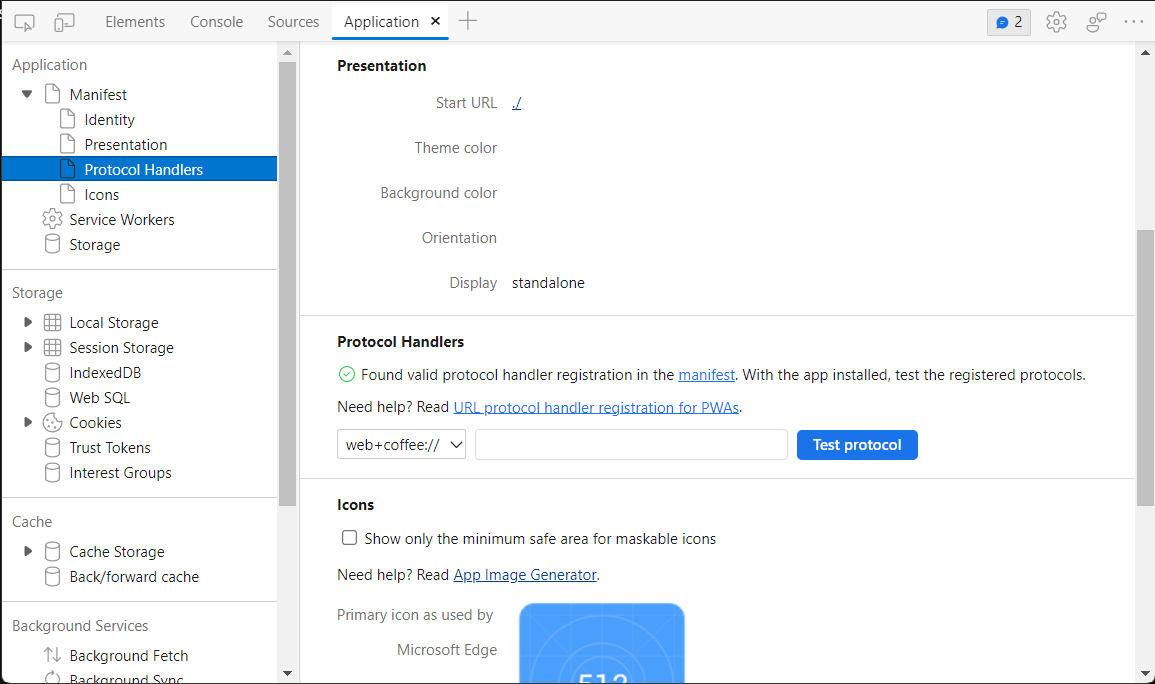
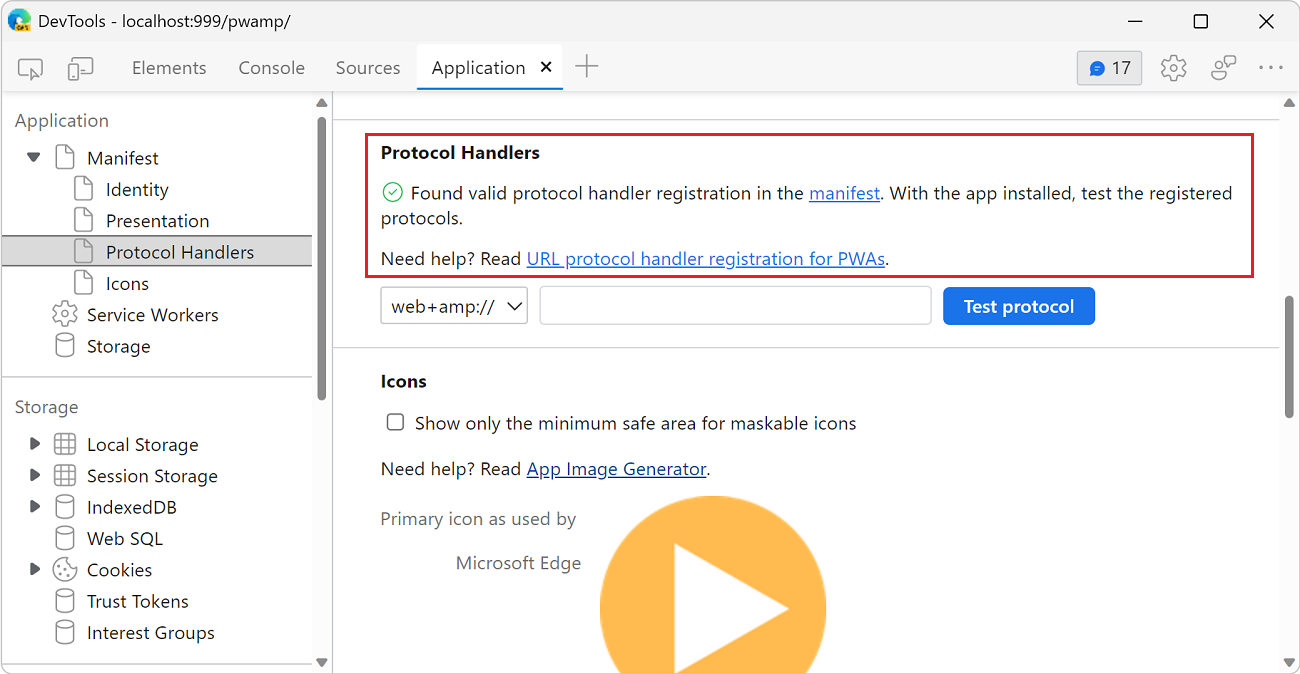
Edit pass on the new protocol handling doc

Changed region(s): [[0.0, 0.0, 1.0, 1.0], [0.8104, 0.0, 1.0, 0.1558], [0.4364, 0.0935, 0.4675, 0.1246]]

diff --git a/microsoft-edge/devtools-guide-chromium/progressive-web-apps/protocol-handlers.md b/microsoft-edge/devtools-guide-chromium/progressive-web-apps/protocol-handlers.md
@@ -1,6 +1,6 @@
 ---
-title: Test protocol handlers for PWAs
-description: Use the Application tool to test custom protocols you've defined in your app manifest.
+title: Test Progressive Web App (PWA) protocol handling
+description: Use the Application tool to test custom protocols you've defined in your PWA web app manifest.
 author: MSEdgeTeam
 ms.author: msedgedevrel
 ms.topic: conceptual
@@ -8,49 +8,57 @@ ms.prod: microsoft-edge
 ms.date: 08/23/2022
 ---
 
-# Test protocol handlers for PWAs
+# Test Progressive Web App (PWA) protocol handling
 
-> [!IMPORTANT]
-> To learn how to define and register protocols for your app to handle in the manifest, see [Handle protocols in Progressive Web Apps](../../progressive-web-apps-chromium/how-to/handle-protocols.md).  
-> 
-> This article assumes that you have already defined protocols in your app manifest and are debugging your app with the DevTools.
+This article assumes that you have already defined protocol handlers in your PWA web app manifest and are debugging your app with the DevTools. To learn about how to define and register protocols in your PWA see [Handle protocols in Progressive Web Apps](../../progressive-web-apps-chromium/how-to/handle-protocols.md).  
 
-Use the **Application** tool to verify and test that Microsoft Edge has successfully registered your app as a handler for custom protocols defined in your app manifest.  
+Use the **Application** tool to verify and test that Microsoft Edge has successfully registered your app as a handler for custom protocols defined in your web app manifest.
 
-## Verify that you have defined protocols correctly in your app manifest
 
-If you haven't already defined custom protocols for your app to handle in your manifest, then the Application tool will note that protocols haven't been defined and provide additional info on how to update your manifest.  If you have defined protocols correctly in your manifest, then the Application tool will report that Microsoft Edge has found valid protocol handler registration and that you can test protocols with your app installed.
+<!-- ====================================================================== -->
+## Verify that protocol handlers are defined correctly
 
-To verify that you have defined protocols correctly, complete the following steps:
+If you haven't already defined handlers for custom protocols in your PWA web app manifest, the **Application** tool will note that protocols haven't been defined and will provide additional information on how to update your web app manifest.
 
-  1. Navigate to your PWA in Microsoft Edge
-  1. Open DevTools > Application tool
-  1. Expand the dropdown for **Manifest**
-  1. Select the **Protocol Handlers** entry
+If you have defined protocols correctly in your web app manifest, the **Application** tool will report that Microsoft Edge has found valid protocol handler registrations and that you can test these protocol handlers with your installed PWA.
 
-In the screenshot below, protocols handlers haven't been defined in the manifest.
+To verify that you have correctly defined protocol handlers:
+
+1. Navigate to your PWA in Microsoft Edge. You can use [the PWAmp demo application](https://microsoftedge.github.io/Demos/pwamp/).
+1. Open DevTools (`F12`).
+1. Open the **Application** tool.
+1. Click **Manifest** to expand the dropdown list.
+1. Click **Protocol Handlers**.
+
+If protocol handlers haven't been defined in the web app manifest, or have been defined incorrectly, the following message will be displayed:
 
 ![The Protocol Handlers section of the Manifest pane without protocols defined.](./images/protocol-handlers-not-defined.png)
 
-In the screenshot below, protocol handlers have been defined successfully in the manifest.
+If protocol handlers have been defined successfully in the web app manifest, the following message will be displayed:
 
 ![The Protocol Handlers section of the Manifest pane with protocols defined.](./images/protocol-handlers-defined.png)
 
-From the **Protocol Handlers** section in the Application tool, you can now test the protocols you've defined.
+The **Protocol Handlers** section also makes it possible to test the protocol handlers you've defined.
 
-## Test custom protocols from the Application tool
 
-> [!NOTE]
-> In order to successfully complete the steps described in this section, you must have already installed your PWA.  To learn how to install your PWA, see [Installing a PWA](../../progressive-web-apps-chromium/ux.md#installing-a-pwa)
+<!-- ====================================================================== -->
+## Test custom protocol handlers from the Application tool
 
-The Application tool parses your app manifest for all of the custom protocols you have defined and displays them in a dropdown under the **Protocol Handlers** section. Select the dropdown and the protocol you want to test.
+To test your custom protocol handlers from the **Application** tool, you must have already installed your PWA. To learn how to install your PWA, see [Installing a PWA](../../progressive-web-apps-chromium/ux.md#installing-a-pwa).
 
-Next to the protocol dropdown is a textbox where you can enter the URL or endpoint for the protocol you're testing. In the screenshot below, the `web+coffee://americano` protocol is being tested.
+The **Application** tool detects all the custom protocol handlers from your web app manifest. To test a handler:
 
-![Testing the web+coffee://americano protocol from the Application tool.](./images/test-protocol-handlers.png)
+1. Navigate to your PWA in Microsoft Edge and open DevTools (`F12`). You can use [the PWAmp demo application](https://microsoftedge.github.io/Demos/pwamp/).
+1. Open the **Application** tool and click **Manifest** > **Protocol Handlers**.
+1. Select the custom protocol you want to test by choosing from the dropdown list.
+1. Enter the rest of the URI in the text and click **Test protocol**. This will launch your PWA. Depending on your operating system (OS), you may need to allow Microsoft Edge to open your PWA and accept any OS-level permissions for registering your app as a handler for your protocol.
 
-Selecting the **Test protocol** button will launch your PWA.  Depending on your OS, you may need to allow Microsoft Edge to open your app and accept any OS-level permissions for registering your app as a handler for your protocol.
+In the following screenshot, the `web+amp://files.freemusicarchive.org/storage-freemusicarchive-org/music/no_curator/Kevin_MacLeod/Jazz_Sampler/Kevin_MacLeod_-_AcidJazz.mp3` URI is being tested.
 
+![Testing the custom web+amp protocol from the Application tool.](./images/test-protocol-handlers.png)
+
+
+<!-- ====================================================================== -->
 ## See also
 
 *  [Debug Progressive Web Apps (PWAs)](./index.md)

diff --git a/microsoft-edge/progressive-web-apps-chromium/how-to/handle-protocols.md b/microsoft-edge/progressive-web-apps-chromium/how-to/handle-protocols.md
@@ -22,7 +22,7 @@ To learn more about other existing protocols, see [List of URI schemes](https://
 <!-- ====================================================================== -->
 ## Register protocols to handle
 
-To use Protocol Handling, declare which protocols your app handles. This is done in your app [manifest file](web-app-manifests.md), by using the `protocol_handlers` array member.
+To use Protocol Handling, declare which protocols your app handles. This is done in your web app [manifest file](web-app-manifests.md), by using the `protocol_handlers` array member.
 
 Each entry in the `protocol_handlers` array contains a `protocol` string and a `url` string:
 
@@ -41,7 +41,7 @@ In the above example, the app is registered to handle the `mailto` protocol.  Wh
 
 ## Test protocols with the DevTools
 
-You can use the Application tool in the Microsoft Edge DevTools to verify that Microsoft Edge successfully registered your app as a handler for the protocols you defined in your app manifest.  You can also test protocols and launch your PWA with different URLs and endpoints.  See [Test protocol handlers for PWAs](../../devtools-guide-chromium/progressive-web-apps/protocol-handlers.md) for more info.
+You can use the **Application** tool in Microsoft Edge DevTools to verify that Microsoft Edge successfully registered your app as a handler for the protocols you defined in your web app manifest.  You can also test protocols and launch your PWA with different URLs and endpoints.  See [Test protocol handlers for PWAs](../../devtools-guide-chromium/progressive-web-apps/protocol-handlers.md) for more info.
 
 <!-- ====================================================================== -->
 ## See also
